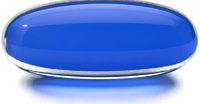
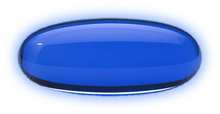
Swap in the glowing Matrix pills.
The new images carry their own colored halo, and the buttons are wider so the capsule stays the same size. The service worker caches those files under a new name and fetches them fresh.

diff --git a/sw.js b/sw.js
@@ -1,7 +1,15 @@
-const CACHE = 'slop-ny-1ce7b3a8f5';
-const FILES = ["./dist/city-1ce7b3a8f5.js","./js/building-geodata.bin.gz","./js/tree-geodata.bin.gz","./dist/part-2DKW5JFN.js","./dist/part-5FHELVQX.js","./dist/part-APXUDIYS.js","./dist/part-B2JLDNR3.js","./dist/part-HYZ3WC7W.js","./dist/part-JWV234YZ.js","./dist/part-O4WC5KQW.js","./dist/part-PH6WOWCI.js","./dist/part-RMIFO4CX.js","./dist/part-XKQIZPQY.js"];
+const CACHE = 'slop-ny-1ce7b3a8f5-pills2';
+const FILES = ["./dist/city-1ce7b3a8f5.js","./js/building-geodata.bin.gz","./js/tree-geodata.bin.gz","./assets/ui/pill-red.png?v=2","./assets/ui/pill-blue.png?v=2","./assets/ui/avatar-roach.png","./assets/ui/avatar-rat.png","./dist/part-2DKW5JFN.js","./dist/part-5FHELVQX.js","./dist/part-APXUDIYS.js","./dist/part-B2JLDNR3.js","./dist/part-HYZ3WC7W.js","./dist/part-JWV234YZ.js","./dist/part-O4WC5KQW.js","./dist/part-PH6WOWCI.js","./dist/part-RMIFO4CX.js","./dist/part-XKQIZPQY.js"];
 self.addEventListener('install', (event) => {
-  event.waitUntil(caches.open(CACHE).then((cache) => cache.addAll(FILES)).then(() => self.skipWaiting()));
+  event.waitUntil((async () => {
+    const cache = await caches.open(CACHE);
+    await Promise.all(FILES.map(async (path) => {
+      const res = await fetch(path, { cache: 'reload' });
+      if (!res.ok) throw new Error(path);
+      await cache.put(path, res);
+    }));
+    await self.skipWaiting();
+  })());
 });
 self.addEventListener('activate', (event) => {
   event.waitUntil((async () => {
@@ -29,7 +37,7 @@ self.addEventListener('fetch', (event) => {
   // Leave stylesheets to the network. The loader is inline, and a worker that is
   // still starting must not hold the sheet that used to block the first paint.
   if (url.pathname.endsWith('.css')) return;
-  const asset = url.pathname.includes('/dist/') || url.pathname.endsWith('.bin.gz');
+  const asset = url.pathname.includes('/dist/') || url.pathname.endsWith('.bin.gz') || url.pathname.includes('/assets/ui/');
   if (!asset) return;
   event.respondWith((async () => {
     const cache = await caches.open(CACHE);

diff --git a/index.html b/index.html
@@ -187,8 +187,8 @@
   <!-- Bottom-Center: Third-Person Mode Switcher & Controls Guide -->
   <footer class="hud hud-bottom-center">
     <div id="matrix-pills" class="matrix-pills" role="group" aria-label="Matrix offer">
-      <button id="pill-red" class="matrix-pill is-dim" type="button" title="Back to reality" aria-label="Back to reality"><img src="assets/ui/pill-red.png" alt="" /></button>
-      <button id="pill-blue" class="matrix-pill" type="button" title="Enter the Matrix" aria-label="Enter the Matrix"><img src="assets/ui/pill-blue.png" alt="" /></button>
+      <button id="pill-red" class="matrix-pill is-dim" type="button" title="Back to reality" aria-label="Back to reality"><img src="assets/ui/pill-red.png?v=2" alt="" /></button>
+      <button id="pill-blue" class="matrix-pill" type="button" title="Enter the Matrix" aria-label="Enter the Matrix"><img src="assets/ui/pill-blue.png?v=2" alt="" /></button>
     </div>
     <div id="hud-controls-hint" class="controls-hint"></div>
     <nav id="mode-switch" class="panel mode-switch" aria-label="Third-Person Navigation Mode">

diff --git a/css/style.css b/css/style.css
@@ -1547,12 +1547,13 @@ body.matrix-mode .drop-log { border-color: #1f8f3a; }
 }
 .matrix-pills {
   display: flex;
-  gap: 10px;
+  gap: 0;
   align-items: center;
   pointer-events: auto;
 }
 .matrix-pill {
-  width: 76px;
+  width: 114px;
+  margin: 0 -12px;
   padding: 0;
   border: 0;
   border-radius: 0;
@@ -1567,7 +1568,7 @@ body.matrix-mode .drop-log { border-color: #1f8f3a; }
 }
 .matrix-pill:hover img {
   transform: translateY(-3px);
-  filter: drop-shadow(0 8px 10px rgba(255, 255, 255, 0.28));
+  filter: brightness(1.12);
 }
 .matrix-pill.is-dim {
   opacity: 0.38;
@@ -1577,7 +1578,7 @@ body.matrix-mode .drop-log { border-color: #1f8f3a; }
   filter: none;
 }
 @media (max-width: 640px) {
-  .matrix-pill { width: 64px; }
+  .matrix-pill { width: 96px; margin: 0 -10px; }
 }
 
 @media (prefers-reduced-motion: reduce) {
